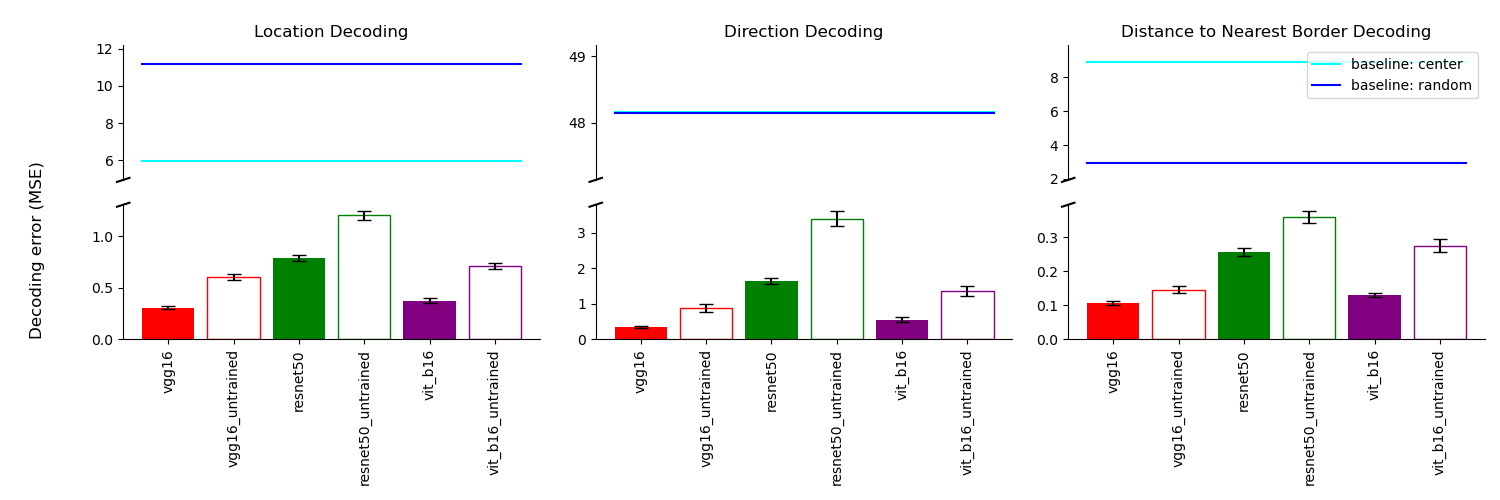
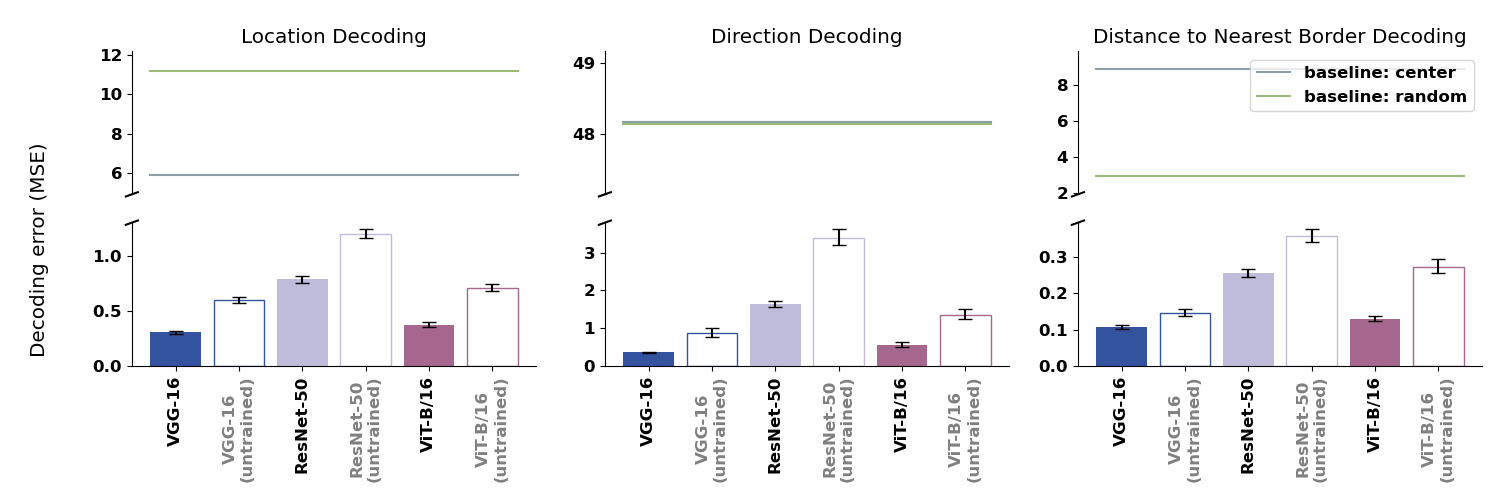
improved plotter

diff --git a/figures_paper.py b/figures_paper.py
@@ -556,13 +556,13 @@ def decoding_all_models_one_layer_one_sr():
             model_name = model_names[x_i]
             if 'vgg16' in model_name:  
                 output_layer = 'block5_pool'
-                fillcolor = 'red'
+                fillcolor = '#33539E'
             elif 'resnet50' in model_name:
                 output_layer = 'avg_pool'
-                fillcolor = 'green'
+                fillcolor = '#BFBBDA'
             elif 'vit' in model_name: 
                 output_layer = 'layer_12'
-                fillcolor = 'purple'
+                fillcolor = '#A5678E'
 
             mse = np.array(
                 results_collector[error_type][model_name][output_layer]['mse'])
@@ -592,20 +592,6 @@ def decoding_all_models_one_layer_one_sr():
                 edgecolor=edgecolor,
                 capsize=5,
             )
-
-
-
-            # axes_row2[i].errorbar(
-            #     x_i,
-            #     mse,
-            #     yerr=[mse-ci_low, ci_high-mse],
-            #     label=model_name,
-            #     marker='o',
-            #     capsize=5,
-            #     mfc=mfc,
-            #     color=color
-            # )
-
                               
         # baselines are the same for all models
         # so we only plot them once as plot
@@ -620,7 +606,7 @@ def decoding_all_models_one_layer_one_sr():
             range(len(model_names)),
             baseline_predict_mid_mse.repeat(len(model_names)),
             label='baseline: center',
-            color='cyan',
+            color='#8B9FA5',
         )
 
         baseline_predict_random_mse = np.array(
@@ -634,7 +620,7 @@ def decoding_all_models_one_layer_one_sr():
             range(len(model_names)),
             baseline_predict_random_mse.repeat(len(model_names)),
             label='baseline: random',
-            color='blue',
+            color='#9ABA79',
         )
         # set ylim with a bit of margin 
         # two baselines can be different magnitude, 
@@ -664,7 +650,22 @@ def decoding_all_models_one_layer_one_sr():
         axes_row2[i].spines['top'].set_visible(False)
         axes_row1[i].set_xticks([])
         axes_row2[i].set_xticks(range(len(model_names)))
-        axes_row2[i].set_xticklabels(model_names, rotation=90)
+
+        # pretty model names
+        pretty_model_names = []
+        for model_name in model_names:
+            if model_name == 'vgg16': pretty_model_names.append('VGG-16')
+            if model_name == 'vgg16_untrained': pretty_model_names.append('VGG-16\n(untrained)')
+            if model_name == 'resnet50': pretty_model_names.append('ResNet-50')
+            if model_name == 'resnet50_untrained': pretty_model_names.append('ResNet-50\n(untrained)')
+            if model_name == 'vit_b16': pretty_model_names.append('ViT-B/16')
+            if model_name == 'vit_b16_untrained': pretty_model_names.append('ViT-B/16\n(untrained)')
+        # if there is untrained in model_name, make the label font color grey
+        # otherwise use the default black.
+        axes_row2[i].set_xticklabels(pretty_model_names, rotation=90)
+        for x_i, model_name in enumerate(model_names):
+            if 'untrained' in model_name:
+                axes_row2[i].get_xticklabels()[x_i].set_color('grey')
 
         # Add diagonal lines to connect the subplots
         d = 0.015  # How big to make the diagonal lines in axes coordinates
@@ -1489,8 +1490,8 @@ def unit_chart_visualization_piechart():
 
 if __name__ == '__main__':
     TF_NUM_INTRAOP_THREADS = 10
-    decoding_each_model_across_layers_and_sr()
-    # decoding_all_models_one_layer_one_sr()
+    # decoding_each_model_across_layers_and_sr()
+    decoding_all_models_one_layer_one_sr()
     # lesion_by_coef_each_model_across_layers_and_lr()
     # lesion_by_unit_chart_each_model_across_layers_and_lr()
     # unit_chart_type_against_coef_each_model_across_layers()
